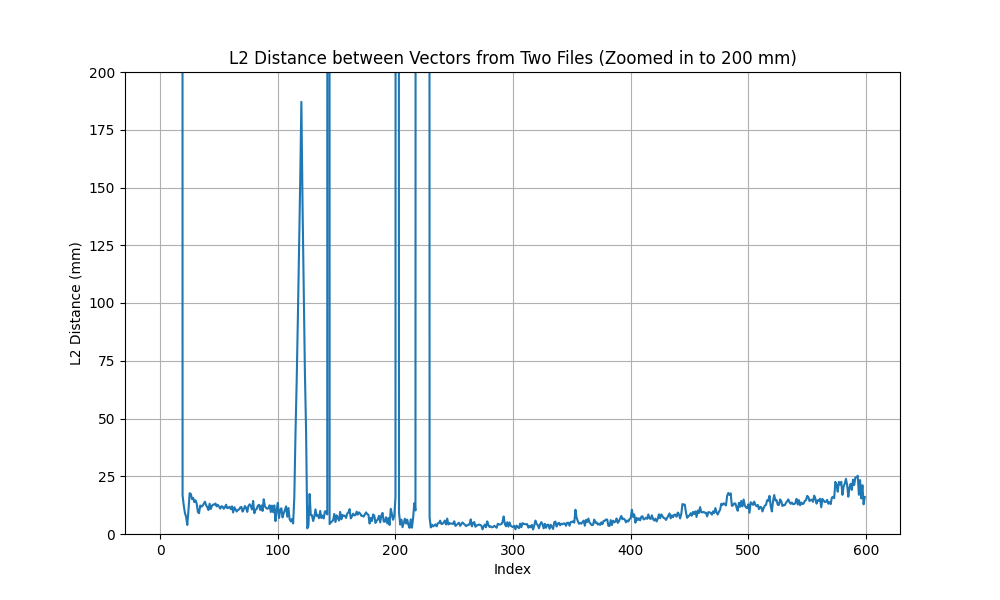
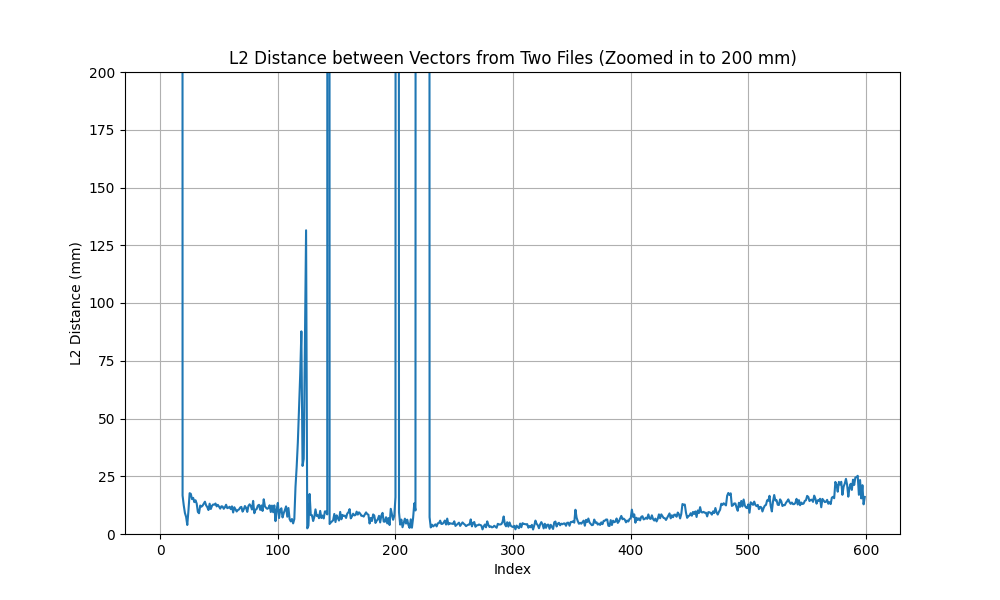
final result

Changed region(s): [[0.279, 0.21, 0.31, 0.87]]

diff --git a/src/main.cpp b/src/main.cpp
@@ -62,18 +62,24 @@ void processParallelCameraFrames(std::vector<Camera> &cameras,int &cameras_num, 
         // Save the 3D point to a CSV file
         myfile << point3D.x << "," << point3D.y << "," << point3D.z << "\n";
 
+        /*
         // Visualize the output
         for (auto& camera : cameras) {
             visualizeOutput(camera);
         }
+        */
 
+        /*
         // Debug output
         std::cout << "position at frame " << frame_index << ": " << point3D << std::endl;
         for (auto& camera : cameras) {
             std::cout << "Camera " << camera.index << " is tracking active: " << camera.is_detection_active << std::endl;
         }
+        */
     }
     myfile.close();
+    
+    std::cout << "The process is done successfully" << std::endl;
 }
 
 
@@ -104,7 +110,7 @@ int main() {
 
    processParallelCameraFrames(cameras,cameras_num, video_length);
 
-    
+
 
     return 0;
 }

diff --git a/src/include/tracking.h b/src/include/tracking.h
@@ -20,14 +20,15 @@ void calculateCurrentPosition(cv::Mat &mask, cv::Mat &frame, Camera &camera)
     }
     else
     {
-        cout << "previous tracker position: " << camera.previous_tracker_position << endl;
+        //cout << "previous tracker position: " << camera.previous_tracker_position << endl;
+        camera.current_tracker_position = camera.previous_tracker_position + camera.tracker_speed;
     }
 }
 
 void calculateTrackerSpeed(Camera &camera, cv::Mat &frame)
 {
     camera.tracker_speed = camera.current_tracker_position - camera.previous_tracker_position;
-    visualizeSpeed(camera.previous_tracker_position, camera.current_tracker_position, frame);
+    //visualizeSpeed(camera.previous_tracker_position, camera.current_tracker_position, frame);
 }
 
 void tracker_by_detection(Camera &camera)

diff --git a/src/include/utils.h b/src/include/utils.h
@@ -93,10 +93,12 @@ cv::Point2f get_PositionFromContour(Mat &frame, vector<Point> &contour, Point2f 
     // Get the minimum enclosing circle
     minEnclosingCircle(contour, tracker_pos, radius);
     
+    /*
     // Draw the circle
     cv::Point tracker_pos_int = cv::Point(cvRound(tracker_pos.x), cvRound(tracker_pos.y));;
     circle(frame, tracker_pos_int, cvRound(radius), Scalar(0, 255, 0), 2); 
-    
+    */
+   
     return tracker_pos;
 }
 
